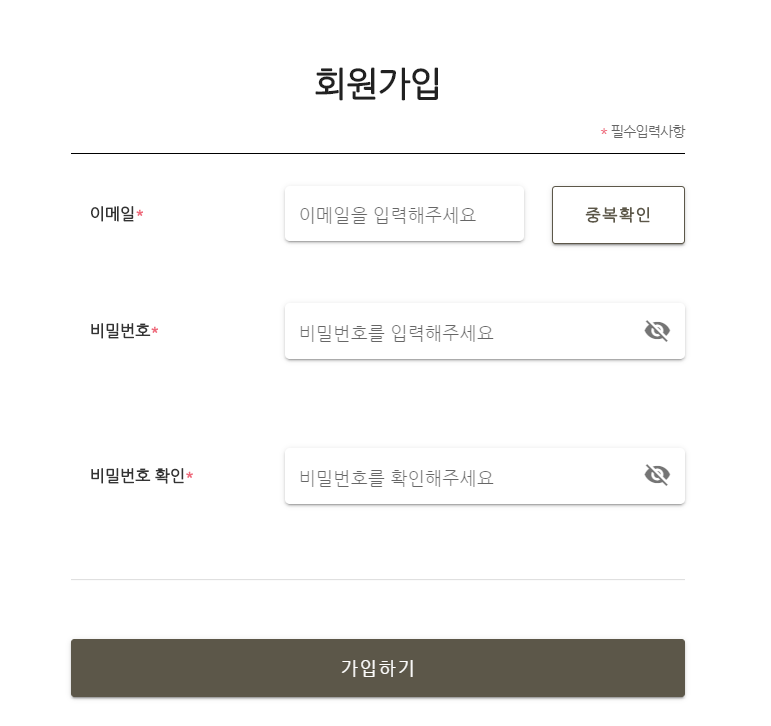
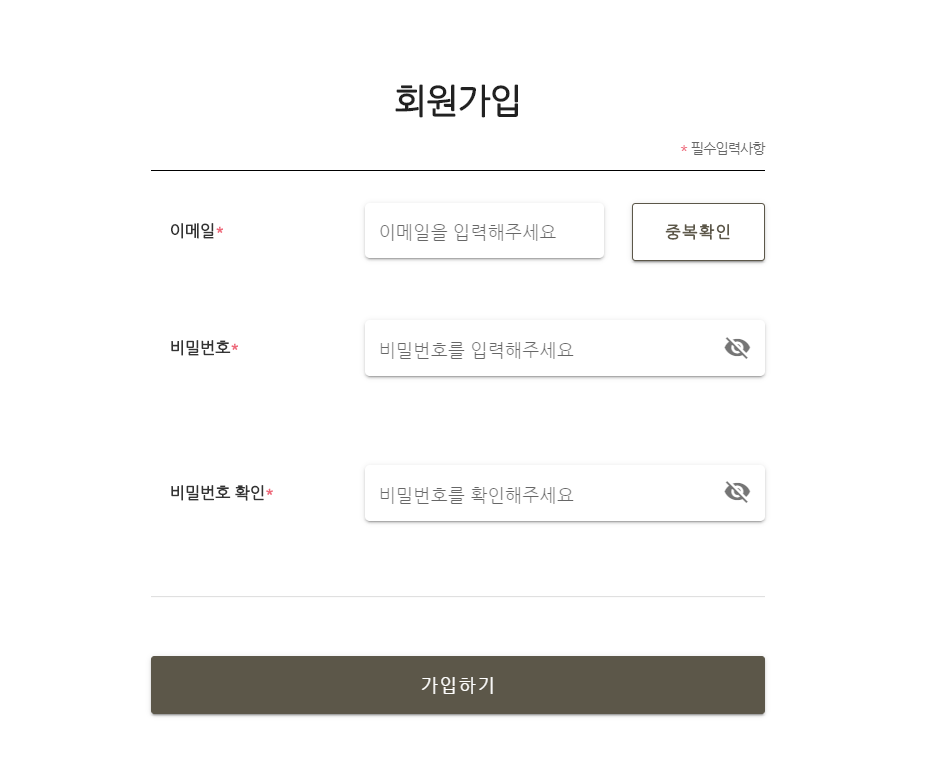
Update README.md

diff --git a/README.md b/README.md
@@ -1,40 +1,84 @@
 # 제철의 광장
-> 빅데이터 503팀 3.3.3
+<img src="frontend/src/assets/logo2.png" width="256"> 
 
-## :pushpin: 목차
-- [개요](#개요)
-	- [와이어프레임](#와이어프레임)
-- [기능](#기능)
-- [기술 스택](#기술-스택)
-- [기술 설명](#기술-설명)
-	- [ERD](#erd)
-	- [시스템 구성도](#시스템-구성도)
+> SSAFY 3기 5반 빅데이터 3팀 3.3.3
 
-## :clipboard: 개요
-> 저렴한 제철 농수산물을 이용한 레시피 추천 웹 서비스
+## 개요
+> 저렴한 제철 농수산물을 이용한 사용자 맞춤 레시피 추천 웹 서비스
 - 배포 URL: [http://j3a503.p.ssafy.io/](http://j3a503.p.ssafy.io/)
 
-### 와이어프레임
-> 상세 와이어프레임은 docs/wireframe 폴더 참조
-
-- 메인 페이지 와이어프레임
-
-![메인와이어프레임](docs/wireframe/메인와이어프레임.png)
 
 ## :scroll: 기능
-- 가격, 제철 시기, 사용자의 알레르기, 비건 정보를 고려한 농수산물 추천
-- 추천된 농수산물을 활용한 레시피 추천
-- 레시피 재료 체크를 위한 장바구니 기능
-- 레시피의 예상 가격 계산
+### :eggplant: 가격, 제철 시기, 사용자의 알레르기 및 비건 정보를 고려한 농수산물 추천
+
+- 메인 농수산물 추천
+
+<img src="docs/images/main_produce_recommend.png" width="700">
+
+
+- 더 많은 맞춤 농수산물 추천
+
+<img src="docs/images/produce_recommend.png" width="700">
+
+
+### :tomato: 추천된 농수산물을 활용한 사용자 맞춤 레시피 추천
+
+- 현재 레시피와 유사한 레시피/색다른 레시피 추천
+
+<img src="docs/images/recipe_recommend.png" width="700">
+
+- 레시피 상세 보기
+
+<img src="docs/images/recipe_detail.png" width="700">
+
+- 추천 농수산물을 이용한 레시피 목록
+
+<img src="docs/images/recipe_list.png" width="700">
+
+### :pear: 레시피 재료 체크를 위한 장바구니 기능
+
+- 레시피 재료중 없는 재료를 장바구니에 담기
+
+<img src="docs/images/add_to_cart.png" width="700">
+
+- 전체 장바구니
+
+<img src="docs/images/cart.png" width="700">
+
+### :peach: 회원 정보 기능
+
+- 로그인
+
+<img src="docs/images/login.png" width="700">
+
+- 회원가입
+
+<img src="docs/images/signup.png" width="700">
+
+- 비건 및 알레르기 정보 수정
+
+<img src="docs/images/user_info.png" width="700">
 
 ## :books: 기술 스택
 ![ERD](docs/기술스택.png)
 
-## :memo: 기술 설명
+|기술 |버전 |
+|-------|-------|
+|JDK |1.8.0_265 |
+|Vue.js |2.6.11 |
+|Node.js|12.18.3 |
+|NGINX  |1.14.0 |
+|Docker |19.03.12 |
+|Python |3.7.9 |
+|Django |3.1.1 |
+|Flask|1.1.2 |
 
-### ERD
-> ver 1.0 (20.09.17)
-![ERD](docs/ERD_ver200917.png)
-
-### 시스템 구성도
-![시스템구성도](docs/시스템구성도.png)
+## :runner: 팀 구성
+|이름|역할|개발 내용|
+|----|------|-----|
+|서정하|Front-end|레시피 및 장바구니 화면|
+|박지은|Front-end|메인 및 유저 화면|
+|이진석|Back-end|작물 추천 서버 및 배포|
+|조원빈|Back-end|레시피 크롤링 및 DB 구축|
+|진슬기|Back-end|유저 기능 및 서버 배포|
+|홍두표|Back-end|레시피 추천 기능|
